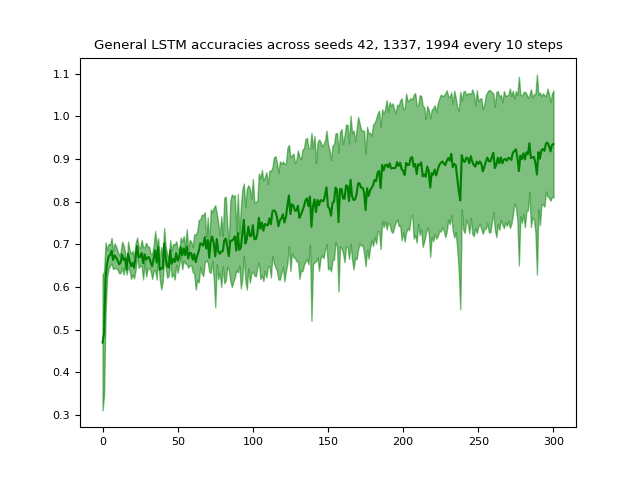
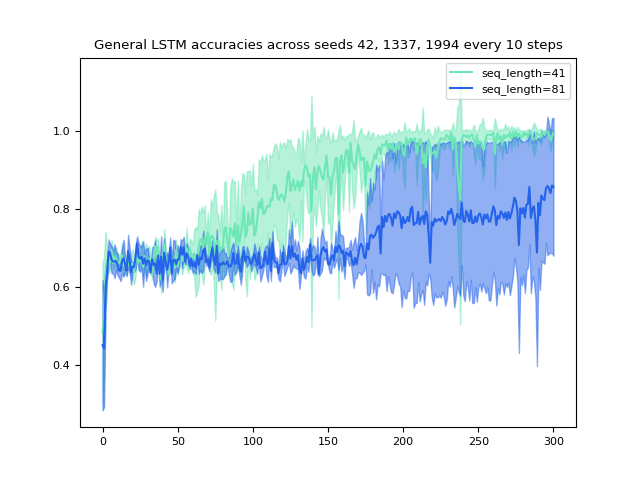
Better plots

diff --git a/assignment_2/2_recurrentnns_gnns/code/Part 1/eval.py b/assignment_2/2_recurrentnns_gnns/code/Part 1/eval.py
@@ -19,20 +19,24 @@ def merge_csvs(base_path, csv_glob='*.csv'):
 all_accs_df = merge_csvs('results', 'accs.csv')
 all_loss_df = merge_csvs('results', 'losses.csv')
 
-def plot_metric_for_model(df, model_name, metric, color, title, figname):
+def plot_metric_for_model(df, model_name, metric, colors, title, figname):
     df = df.query(f'model == "{model_name}"')
-    metric_means = df.groupby('step').mean()[metric]
-    metric_std = df.groupby('step').std()[metric]
 
-    # Plotting starts
-    plt.fill_between(range(len(metric_means)), metric_means - metric_std, metric_means + metric_std, alpha=0.5, color=color)
-    plt.plot(range(len(metric_means)), metric_means, color=color)
+    seq_lengths = df.groupby('seq_length')
+
+    for idx, (key, df_seq_length) in enumerate(seq_lengths):
+        metric_means = df_seq_length.groupby('step').mean()[metric]
+        metric_std = df_seq_length.groupby('step').std()[metric]
+        # Plotting starts
+        plt.fill_between(range(len(metric_means)), metric_means - metric_std,  metric_means + metric_std, color=colors[idx], alpha=0.5)
+        plt.plot(range(len(metric_means)), metric_means, color=colors[idx], label=f"seq_length={key}")
+    
     plt.title(title)
+    plt.legend()
     plt.savefig(f'eval_results/{figname}')
-
     plt.cla()
 
-plot_metric_for_model(all_loss_df, 'LSTM', 'loss', 'r', 'General LSTM Losses across seeds 42, 1337, 1994 every 10 steps', 'LSTM-plot-loss')
-plot_metric_for_model(all_accs_df, 'LSTM', 'acc', 'g', 'General LSTM accuracies across seeds 42, 1337, 1994 every 10 steps', 'LSTM-plot-accs')
-plot_metric_for_model(all_loss_df, 'peepLSTM', 'loss', 'r', 'General peepLSTM losses across seeds 42, 1337, 1994 every 10 steps', 'peepLSTM-plot-loss')
-plot_metric_for_model(all_accs_df, 'peepLSTM', 'acc', 'g', 'General peepLSTM accuracies across seeds 42, 1337, 1994 every 10 steps', 'peepLSTM-plot-accs')
+plot_metric_for_model(all_loss_df, 'LSTM', 'loss', ['#FCD34D', '#B91C1C'], 'General LSTM Losses across seeds 42, 1337, 1994 every 10 steps', 'LSTM-plot-loss')
+plot_metric_for_model(all_accs_df, 'LSTM', 'acc', ['#6EE7B7', '#2563EB'], 'General LSTM accuracies across seeds 42, 1337, 1994 every 10 steps', 'LSTM-plot-accs')
+plot_metric_for_model(all_loss_df, 'peepLSTM', 'loss', ['#FCD34D', '#B91C1C'], 'General peepLSTM losses across seeds 42, 1337, 1994 every 10 steps', 'peepLSTM-plot-loss')
+plot_metric_for_model(all_accs_df, 'peepLSTM', 'acc', ['#6EE7B7', '#2563EB'], 'General peepLSTM accuracies across seeds 42, 1337, 1994 every 10 steps', 'peepLSTM-plot-accs')
